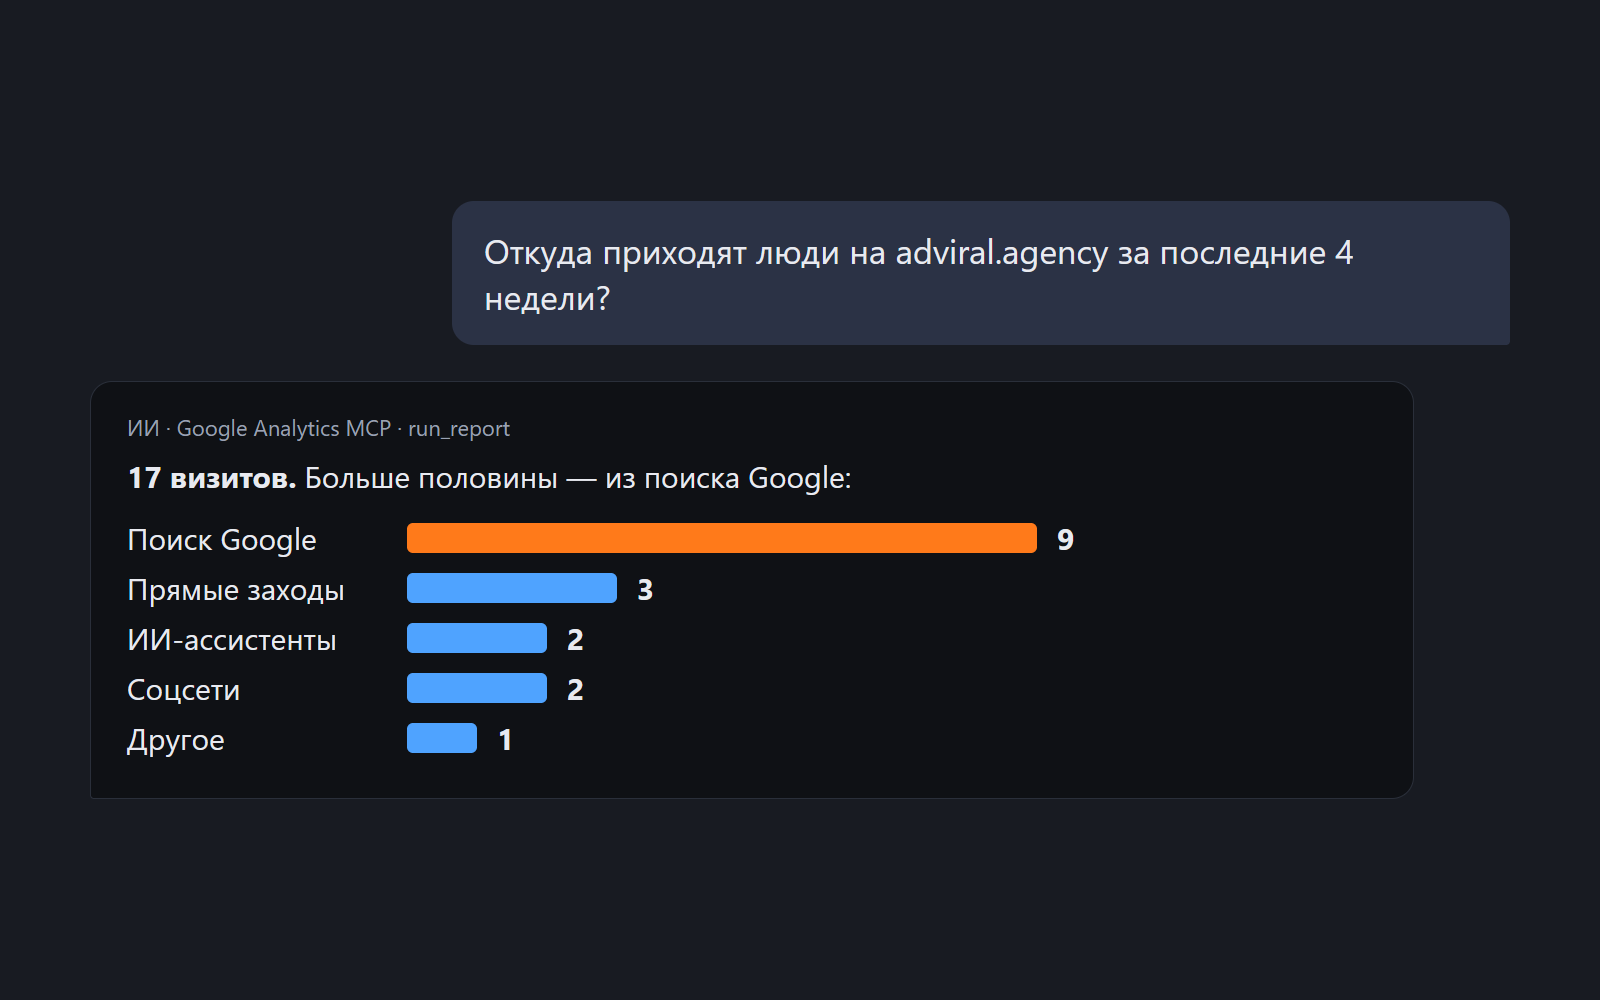
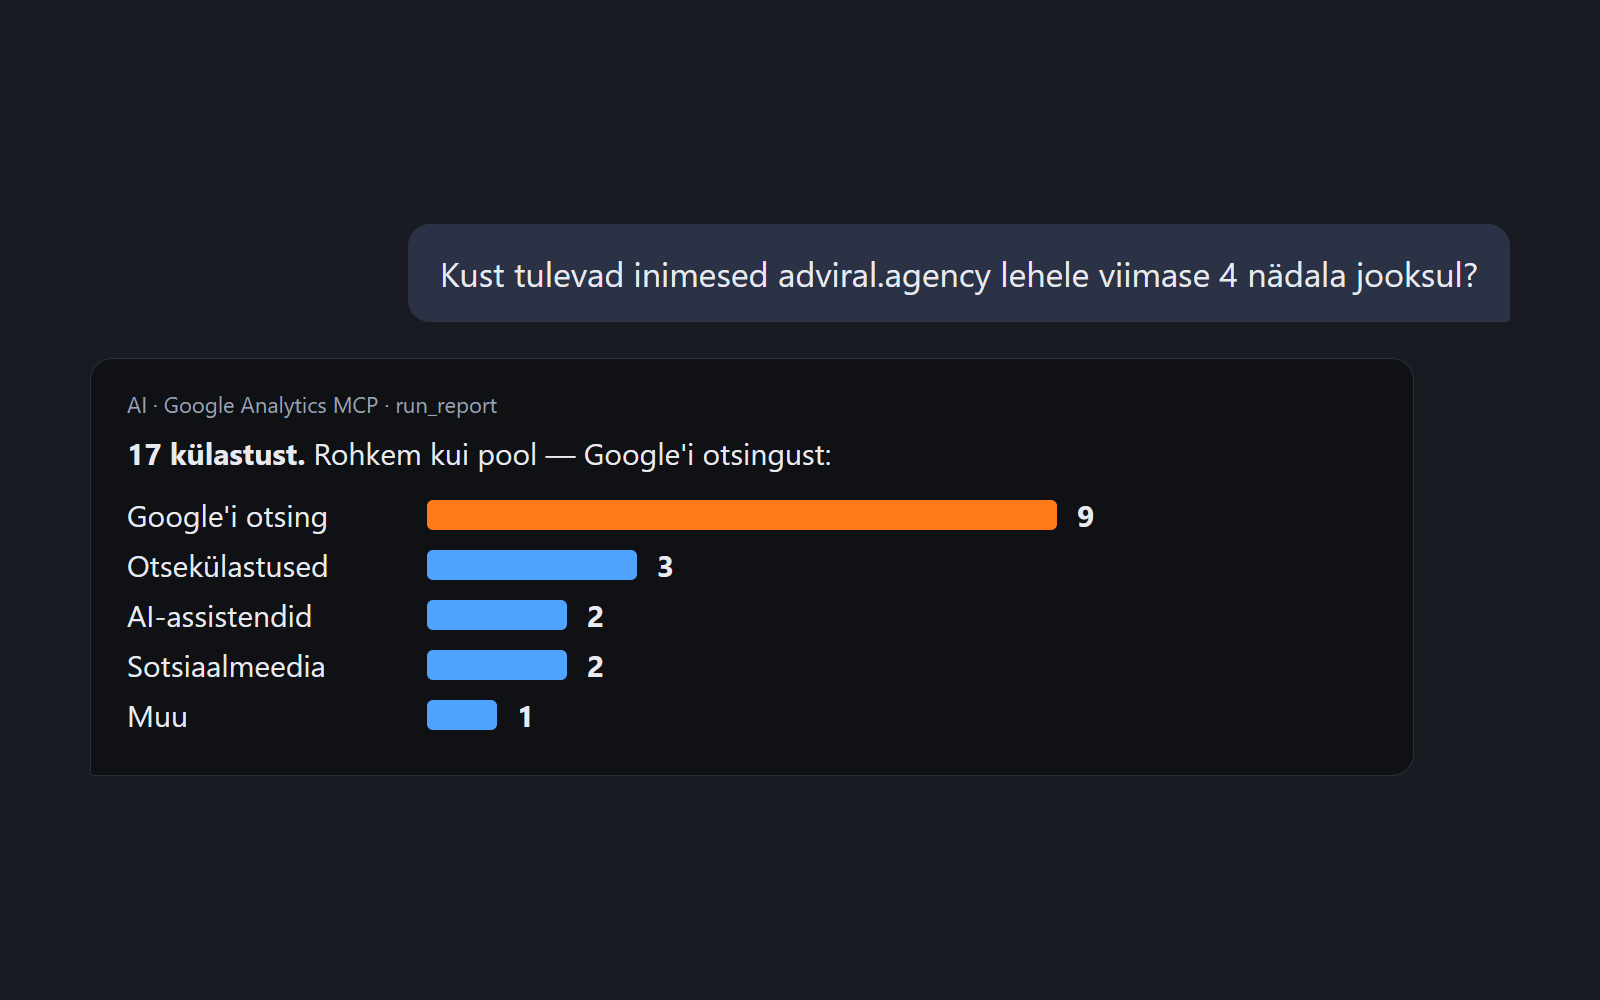
Translate slide 9 analytics screenshot to Estonian

Changed region(s): [[0.0625, 0.403, 0.6875, 0.775], [0.25, 0.186, 0.9688, 0.372]]

diff --git a/Prezentatsioon/slides_ru.html b/Prezentatsioon/slides_ru.html
@@ -47,6 +47,10 @@
     overflow: hidden; background: var(--panel); }
   .img img, .img video { position: absolute; inset: 0; width: 100%; height: 100%; object-fit: cover; }
   .img:has(img), .img:has(video) { border-color: transparent; }
+  .img video.crop-top {
+    width: 128%; height: 128%; left: -14%; right: auto; top: 0; bottom: auto;
+    object-fit: cover; object-position: top center;
+  }
 
   .flow { display: flex; align-items: stretch; gap: 1.2vw; flex-wrap: wrap; }
   .flow .card { flex: 1; min-width: 180px; }
@@ -131,7 +135,7 @@
       <li>Сервер Nginx, деплой по FTP</li>
     </ul>
     <div class="img">
-      <video src="img/GoGPS_QuickLook_fixed.mp4" muted autoplay loop playsinline></video>
+      <video class="crop-top" src="img/GoGPS_QuickLook.mp4?v=5" muted autoplay loop playsinline></video>
     </div>
   </div>
 </section>
@@ -148,8 +152,7 @@
       <li>Сжатые картинки (WebP) и лёгкие превью видео</li>
     </ul>
     <div class="img">
-      <img src="img/adviral_player.png" alt="" onerror="this.remove()">
-      Видеоплеер и светлая тема<br>(img/adviral_player.png)
+      <video class="crop-top" src="img/Adviral_QuickLook.mp4" muted autoplay loop playsinline></video>
     </div>
   </div>
 </section>
@@ -201,7 +204,7 @@
     </div>
     <div class="img">
       <img src="img/ai_analytics.png" alt="" onerror="this.remove()">
-      Вопрос ИИ и ответ по аналитике<br>(img/ai_analytics.png)
+      AI küsimus ja Analyticsi vastus<br>(img/ai_analytics.png)
     </div>
   </div>
 </section>
